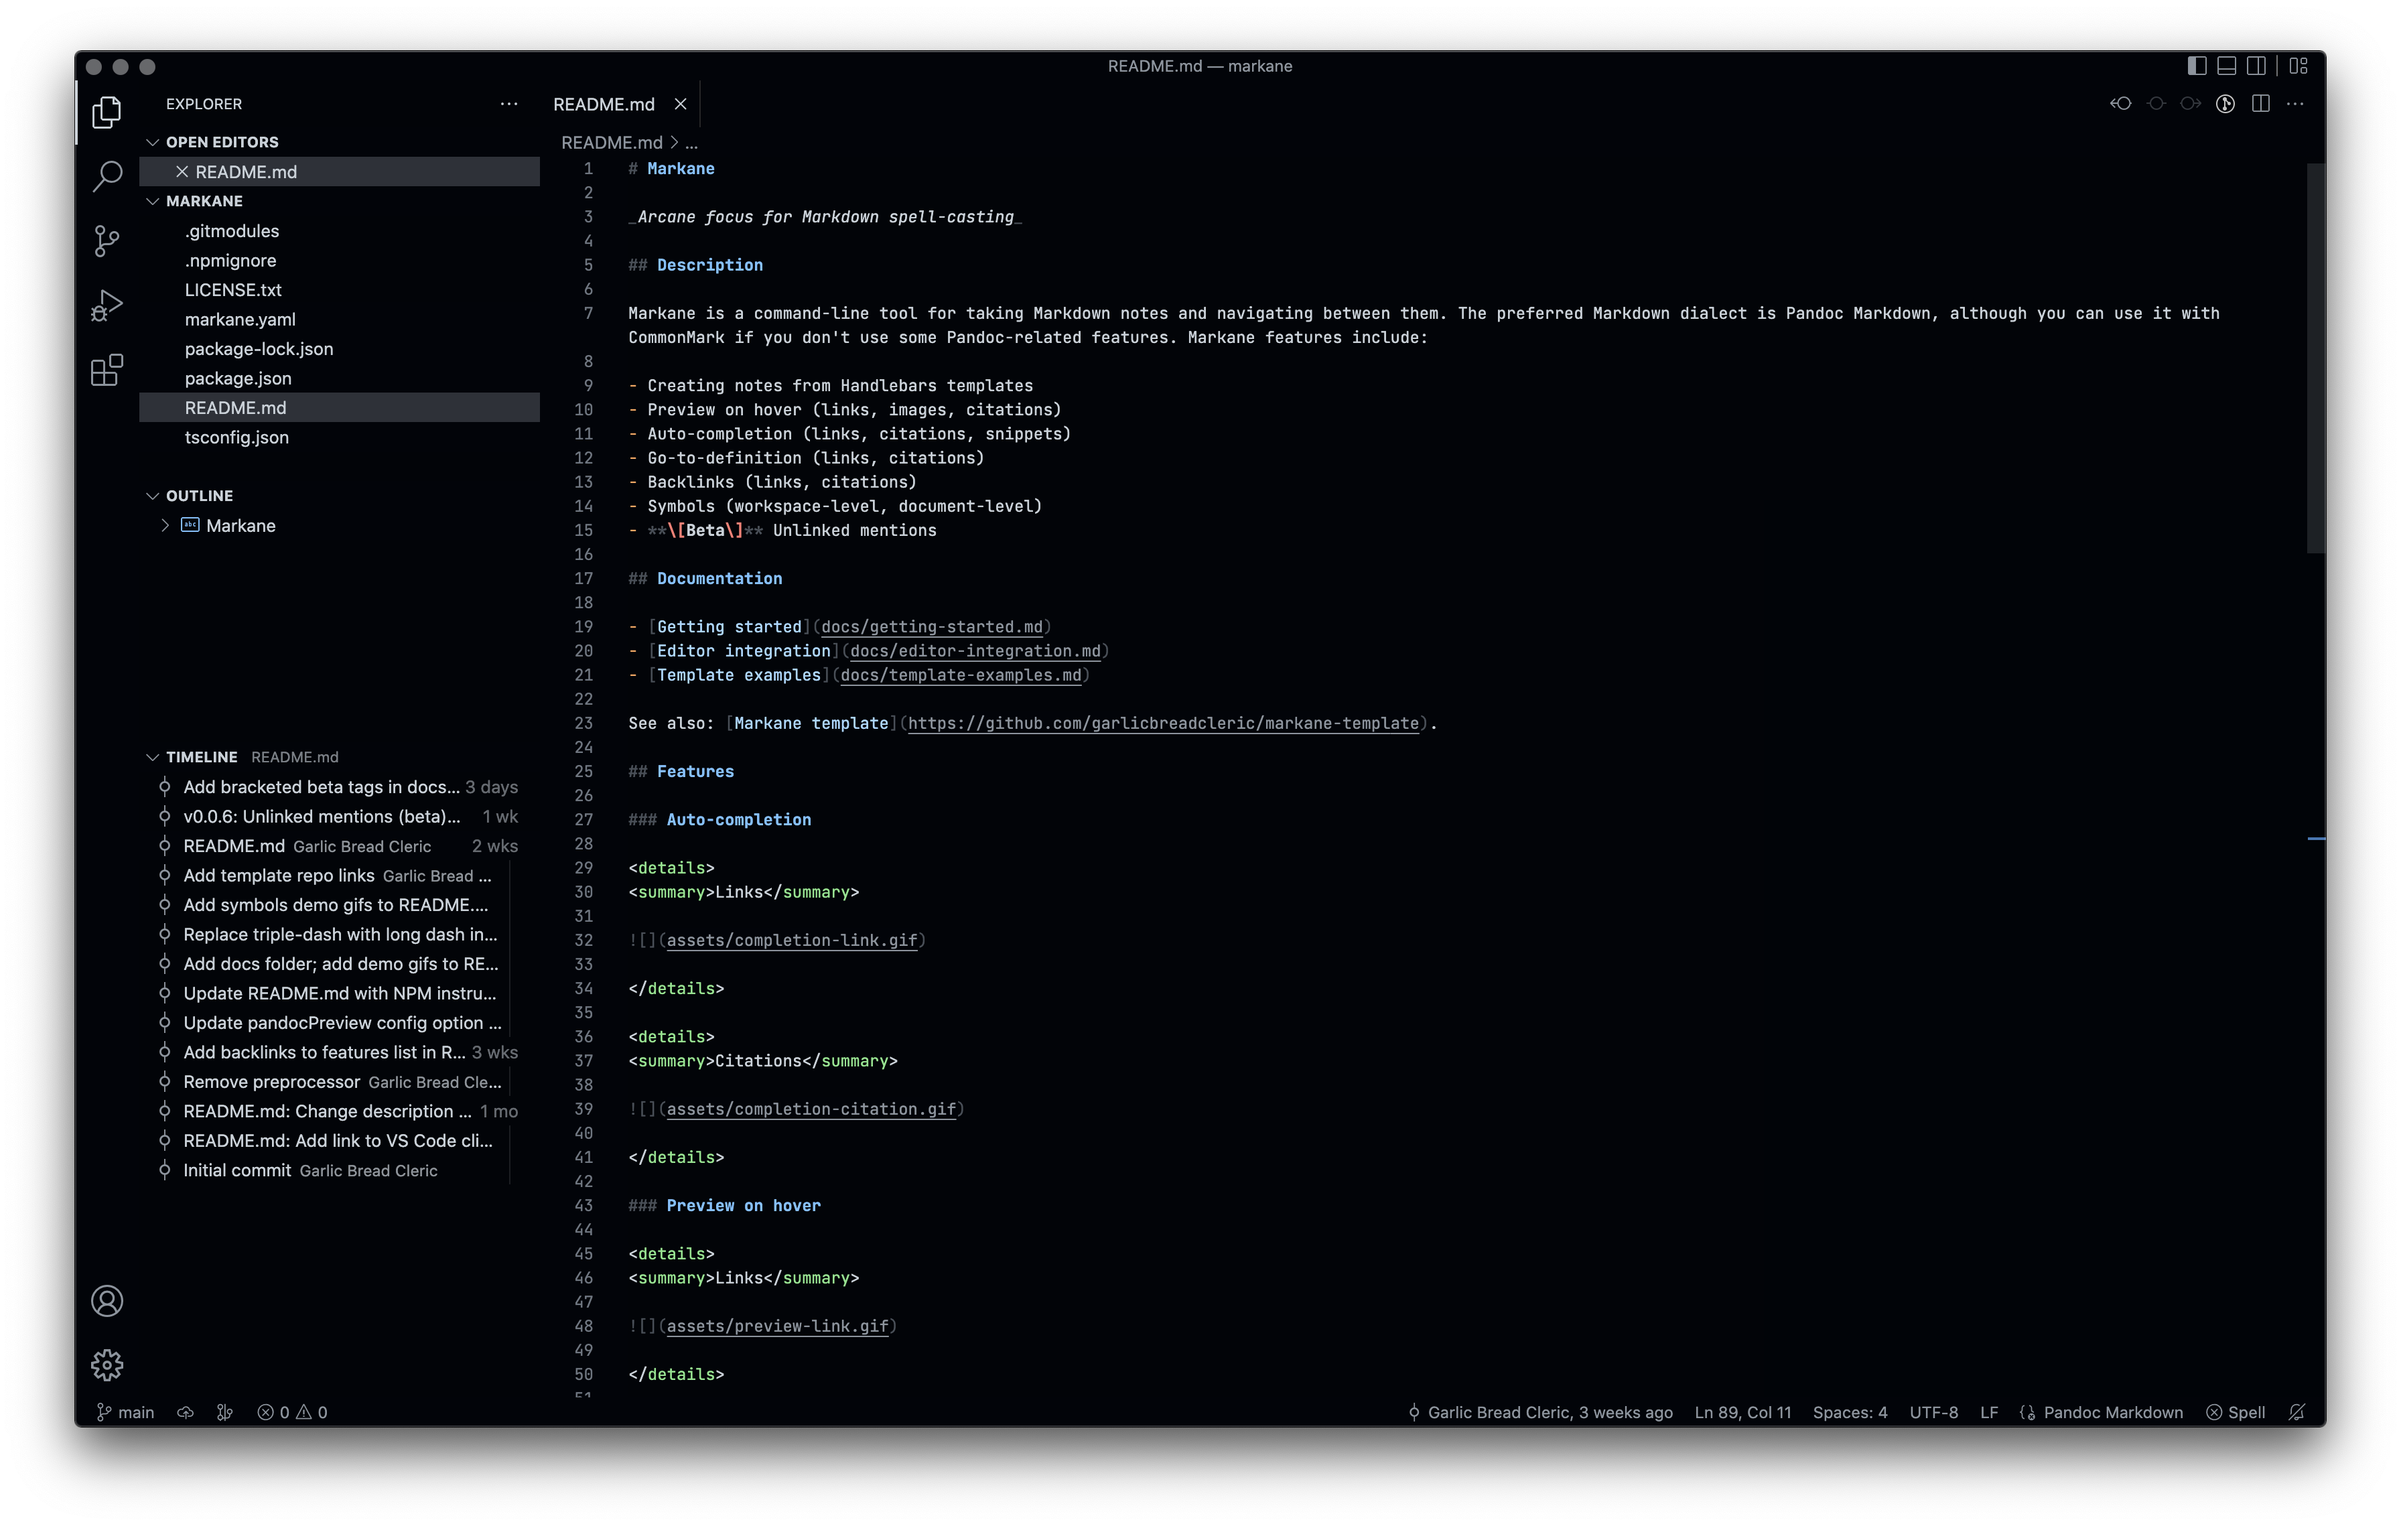
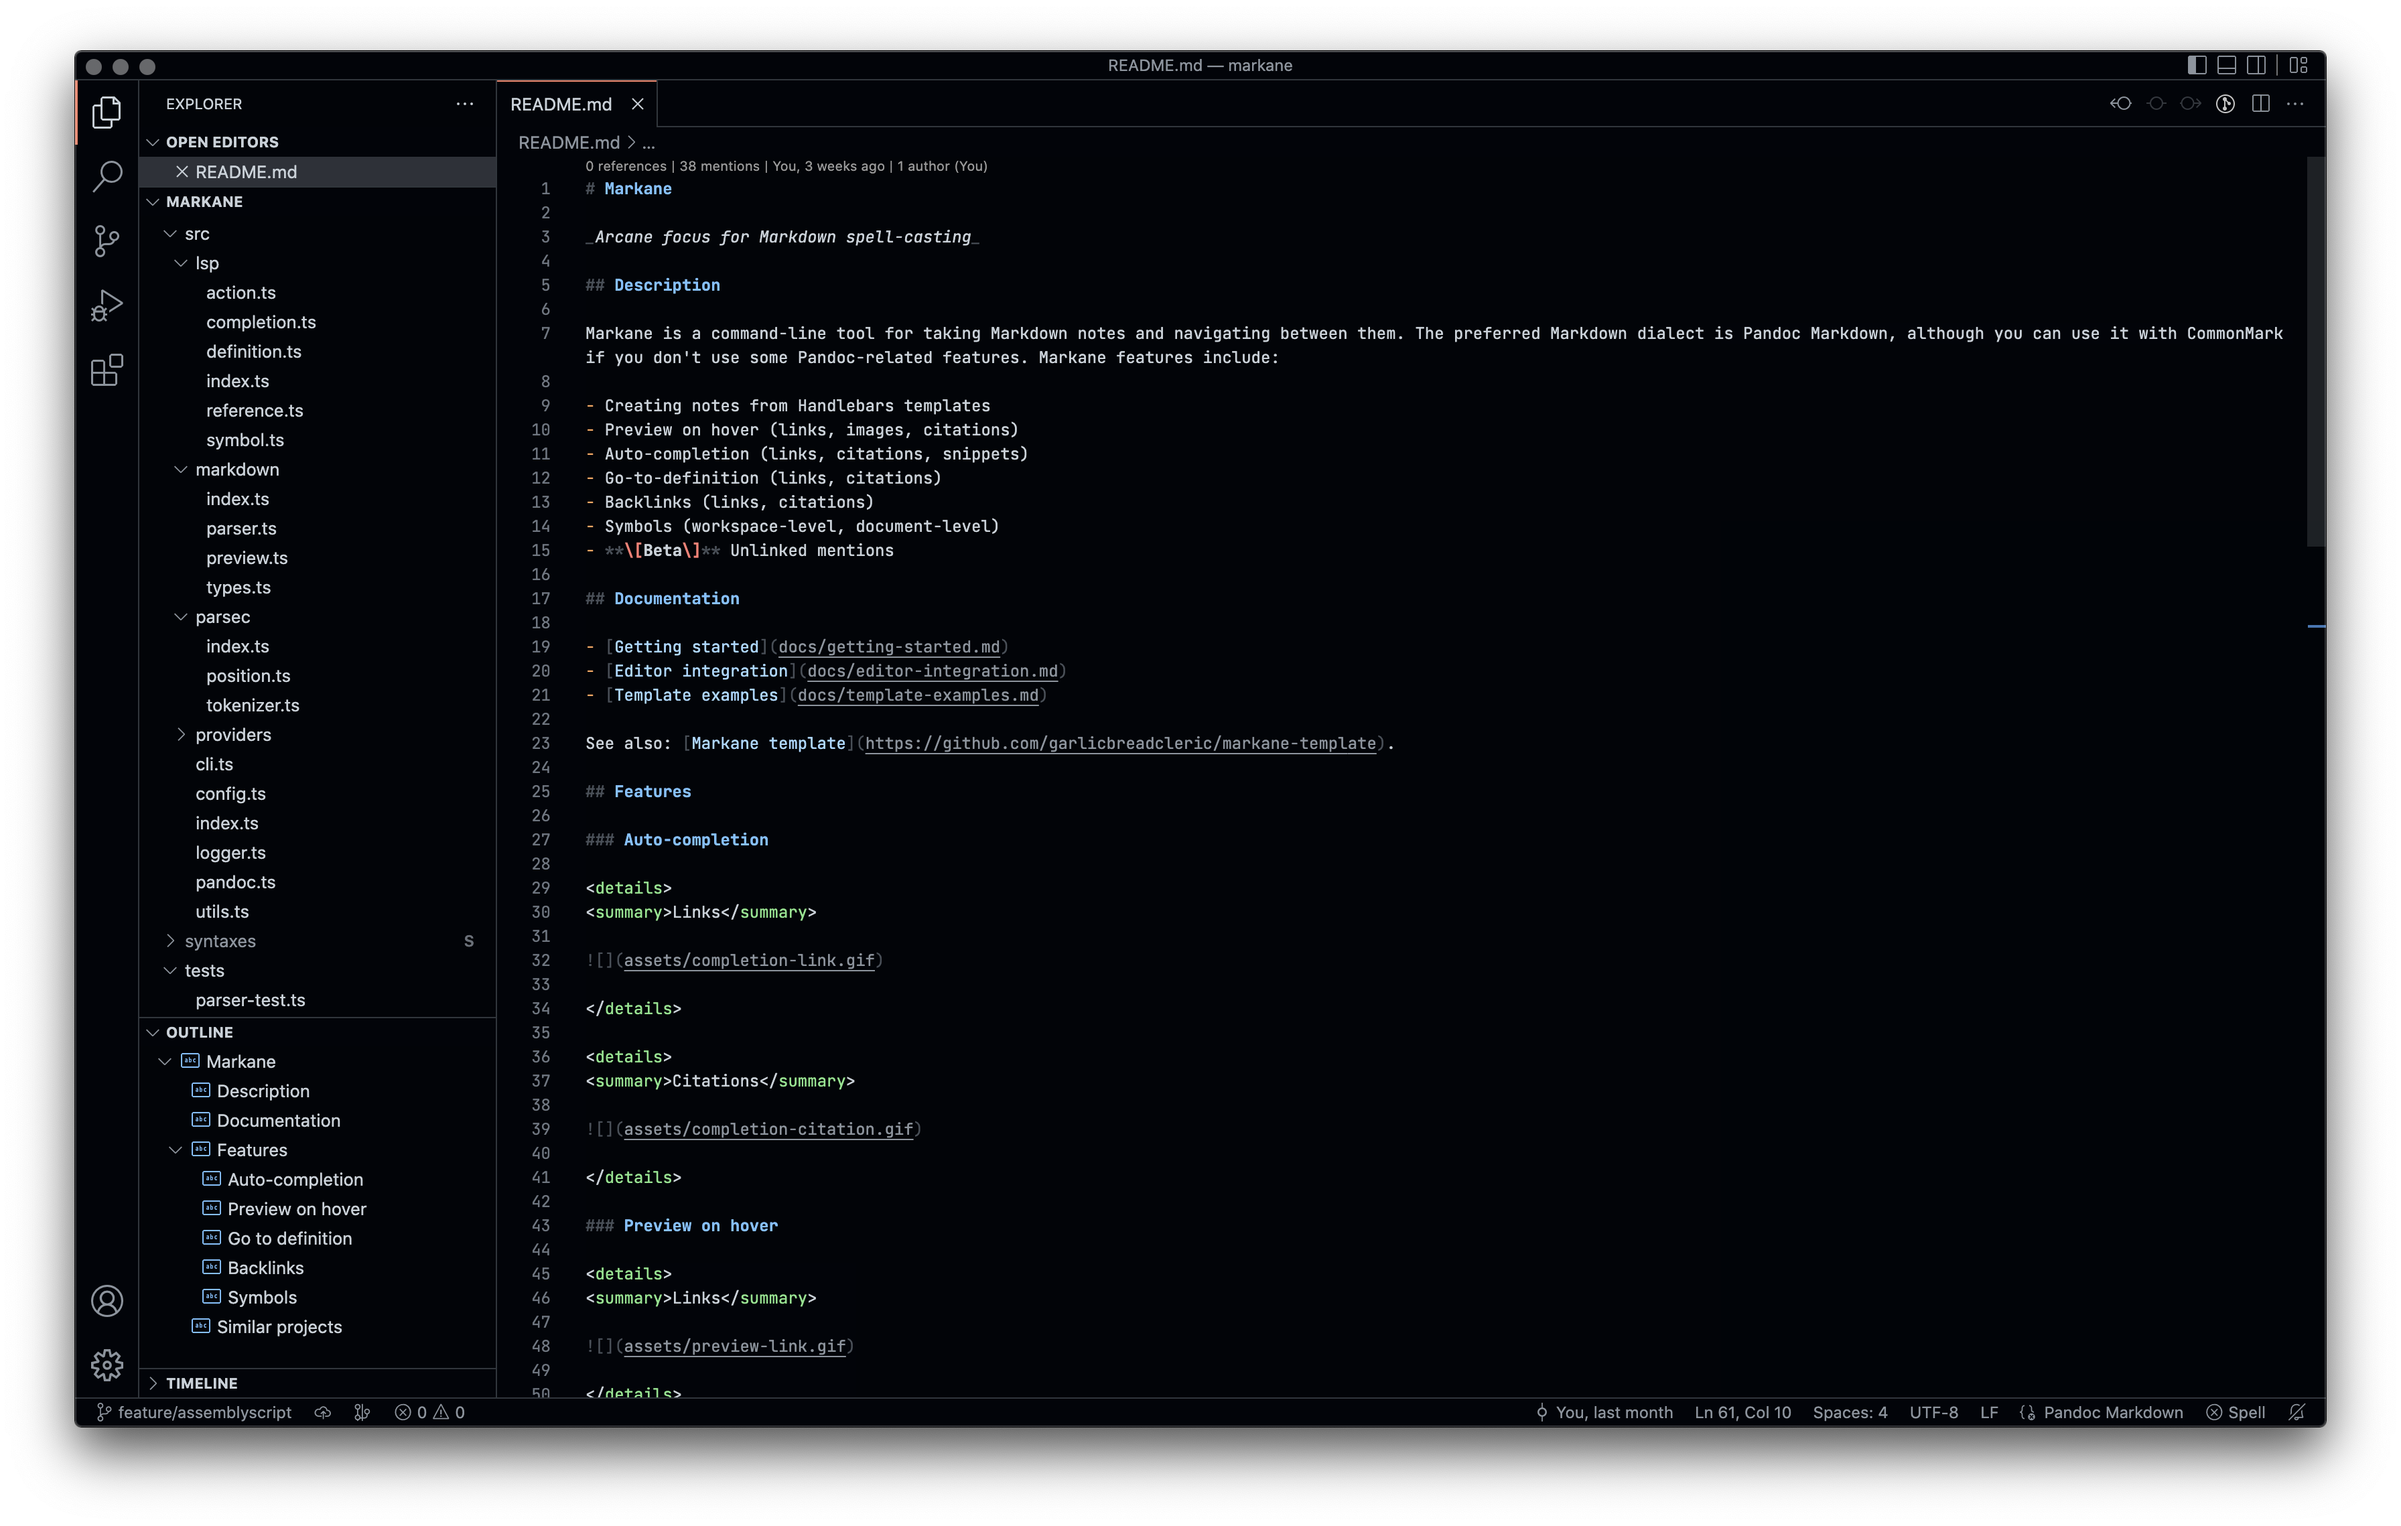
Bring back borders

diff --git a/src/theme.js b/src/theme.js
@@ -41,7 +41,7 @@ function getTheme({ theme, name }) {
   return {
     name: name,
     colors: {
-      // focusBorder          : color.accent.emphasis,
+      focusBorder          : color.accent.emphasis,
       foreground           : color.fg.default,
       descriptionForeground: color.fg.muted,
       errorForeground      : color.danger.fg,
@@ -49,10 +49,10 @@ function getTheme({ theme, name }) {
       "textLink.foreground"      : color.accent.fg,
       "textLink.activeForeground": color.accent.fg,
       "textBlockQuote.background": color.canvas.inset,
-      // "textBlockQuote.border"    : color.border.default,
+      "textBlockQuote.border"    : color.border.default,
       "textCodeBlock.background" : color.neutral.muted,
       "textPreformat.foreground" : color.fg.muted,
-      // "textSeparator.foreground" : color.border.muted,
+      "textSeparator.foreground" : color.border.muted,
 
       "icon.foreground"           : color.fg.muted,
       "keybindingLabel.foreground": color.fg.default,
@@ -66,15 +66,15 @@ function getTheme({ theme, name }) {
       "button.secondaryHoverBackground": color.btn.hoverBg,
 
       "checkbox.background": color.canvas.subtle,
-      // "checkbox.border"    : color.border.default,
+      "checkbox.border"    : color.border.default,
 
       "dropdown.background"    : color.canvas.overlay,
-      // "dropdown.border"        : color.border.default,
+      "dropdown.border"        : color.border.default,
       "dropdown.foreground"    : color.fg.default,
       "dropdown.listBackground": color.canvas.overlay,
 
       "input.background"           : color.canvas.inset,
-      // "input.border"               : color.border.default,
+      "input.border"               : color.border.default,
       "input.foreground"           : color.fg.default,
       "input.placeholderForeground": color.fg.subtle,
 
@@ -87,23 +87,23 @@ function getTheme({ theme, name }) {
       "titleBar.activeBackground"  : color.canvas.inset,
       "titleBar.inactiveForeground": color.fg.muted,
       "titleBar.inactiveBackground": color.canvas.inset,
-      // "titleBar.border"            : color.border.default,
+      "titleBar.border"            : color.border.default,
 
       "activityBar.foreground"        : color.fg.default,
       "activityBar.inactiveForeground": color.fg.muted,
       "activityBar.background"        : color.canvas.inset,
       "activityBarBadge.foreground"   : color.fg.onEmphasis,
       "activityBarBadge.background"   : color.accent.emphasis,
-      // "activityBar.activeBorder"      : color.primer.border.active,
-      // "activityBar.border"            : color.border.default,
+      "activityBar.activeBorder"      : color.primer.border.active,
+      "activityBar.border"            : color.border.default,
 
       "sideBar.foreground"             : color.fg.default,
       "sideBar.background"             : color.canvas.inset,
-      // "sideBar.border"                 : color.border.default,
+      "sideBar.border"                 : color.border.default,
       "sideBarTitle.foreground"        : color.fg.default,
       "sideBarSectionHeader.foreground": color.fg.default,
       "sideBarSectionHeader.background": color.canvas.inset,
-      // "sideBarSectionHeader.border"    : color.border.default,
+      "sideBarSectionHeader.border"    : color.border.default,
 
       "list.hoverForeground"            : color.fg.default,
       "list.inactiveSelectionForeground": color.fg.default,
@@ -116,26 +116,26 @@ function getTheme({ theme, name }) {
       "list.inactiveFocusBackground"    : color.accent.subtle,
       "list.highlightForeground"        : color.accent.fg,
 
-      // "tree.indentGuidesStroke": color.border.muted,
+      "tree.indentGuidesStroke": color.border.muted,
 
       "notificationCenterHeader.foreground": color.fg.muted,
       "notificationCenterHeader.background": color.canvas.subtle,
       "notifications.foreground"           : color.fg.default,
       "notifications.background"           : color.canvas.overlay,
-      // "notifications.border"               : color.border.default,
+      "notifications.border"               : color.border.default,
       "notificationsErrorIcon.foreground"  : color.danger.fg,
       "notificationsWarningIcon.foreground": color.attention.fg,
       "notificationsInfoIcon.foreground"   : color.accent.fg,
 
-      // "pickerGroup.border"    : color.border.default,
+      "pickerGroup.border"    : color.border.default,
       "pickerGroup.foreground": color.fg.muted,
       "quickInput.background" : color.canvas.overlay,
       "quickInput.foreground" : color.fg.default,
 
       "statusBar.foreground"             : color.fg.muted,
       "statusBar.background"             : color.canvas.inset,
-      // "statusBar.border"                 : color.border.default,
-      // "statusBar.focusBorder"            : alpha(color.accent.emphasis, 0.5),
+      "statusBar.border"                 : color.border.default,
+      "statusBar.focusBorder"            : alpha(color.accent.emphasis, 0.5),
       "statusBar.noFolderBackground"     : color.canvas.inset,
       "statusBar.debuggingForeground"    : color.fg.onEmphasis,
       "statusBar.debuggingBackground"    : color.danger.emphasis,
@@ -144,12 +144,12 @@ function getTheme({ theme, name }) {
       "statusBarItem.remoteBackground"   : lightDark(color.scale.gray[1], color.scale.gray[6]),
       "statusBarItem.hoverBackground"    : alpha(color.fg.default, 0.08),
       "statusBarItem.activeBackground"   : alpha(color.fg.default, 0.12),
-      // "statusBarItem.focusBorder"        : color.accent.emphasis,
+      "statusBarItem.focusBorder"        : color.accent.emphasis,
 
       "editorGroupHeader.tabsBackground": color.canvas.inset,
-      "editorGroupHeader.tabsBorder"    : "#0000",
+      "editorGroupHeader.tabsBorder"    : color.border.default,
       "editorGroup.shadow"              : "#0000",
-      "editorGroup.border"              : "#0000",
+      "editorGroup.border"              : color.border.default,
 
       "tab.activeForeground"        : color.fg.default,
       "tab.inactiveForeground"      : color.fg.muted,
@@ -157,11 +157,11 @@ function getTheme({ theme, name }) {
       "tab.activeBackground"        : color.canvas.inset,
       "tab.hoverBackground"         : color.canvas.inset,
       "tab.unfocusedHoverBackground": color.neutral.subtle,
-      // "tab.border"                  : color.border.default,
-      // "tab.unfocusedActiveBorderTop": color.border.default,
-      // "tab.activeBorder"            : color.canvas.inset,
-      // "tab.unfocusedActiveBorder"   : color.canvas.inset,
-      // "tab.activeBorderTop"         : color.primer.border.active,
+      "tab.border"                  : color.border.default,
+      "tab.unfocusedActiveBorderTop": color.border.default,
+      "tab.activeBorder"            : color.canvas.inset,
+      "tab.unfocusedActiveBorder"   : color.canvas.inset,
+      "tab.activeBorderTop"         : color.primer.border.active,
 
       "breadcrumb.foreground"               : color.fg.muted,
       "breadcrumb.focusForeground"          : color.fg.default,
@@ -173,7 +173,7 @@ function getTheme({ theme, name }) {
       "editorWidget.background"           : color.canvas.overlay,
       "editor.foldBackground"             : alpha(color.neutral.emphasis, 0.1),
       "editor.lineHighlightBackground"    : color.codemirror.activelineBg,
-      // "editor.lineHighlightBorder"        : onlyDarkHighContrast(color.accent.fg),
+      "editor.lineHighlightBorder"        : onlyDarkHighContrast(color.accent.fg),
       "editorLineNumber.foreground"       : lightDark(scale.gray[4], scale.gray[4]),
       "editorLineNumber.activeForeground" : color.fg.default,
       "editorIndentGuide.background"      : alpha(color.fg.default, 0.12),
@@ -188,11 +188,11 @@ function getTheme({ theme, name }) {
       "editor.selectionBackground"            : alpha(color.accent.fg, 0.2),
       "editor.selectionHighlightBackground"   : alpha(scale.green[3], 0.25),
       "editor.wordHighlightBackground"        : alpha(color.neutral.subtle, 0.5),
-      // "editor.wordHighlightBorder"            : alpha(color.neutral.muted, 0.6),
+      "editor.wordHighlightBorder"            : alpha(color.neutral.muted, 0.6),
       "editor.wordHighlightStrongBackground"  : alpha(color.neutral.muted, 0.3),
-      // "editor.wordHighlightStrongBorder"      : alpha(color.neutral.muted, 0.6),
+      "editor.wordHighlightStrongBorder"      : alpha(color.neutral.muted, 0.6),
       "editorBracketMatch.background"         : alpha(scale.green[3], 0.25),
-      // "editorBracketMatch.border"             : alpha(scale.green[3], 0.6),
+      "editorBracketMatch.border"             : alpha(scale.green[3], 0.6),
       // text selection for High Contrast themes
       "editor.selectionForeground"            : onlyHighContrast(color.fg.onEmphasis),
       "editor.selectionBackground"            : onlyHighContrast(color.neutral.emphasisPlus),
@@ -218,18 +218,18 @@ function getTheme({ theme, name }) {
       "scrollbarSlider.background"        : lightDark(alpha(scale.gray[4], 0.2), alpha(scale.gray[3], 0.2)),
       "scrollbarSlider.hoverBackground"   : lightDark(alpha(scale.gray[4], 0.24), alpha(scale.gray[3], 0.24)),
       "scrollbarSlider.activeBackground"  : lightDark(alpha(scale.gray[4], 0.28), alpha(scale.gray[3], 0.28)),
-      "editorOverviewRuler.border"        : "#0000",
+      "editorOverviewRuler.border"        : lightDark(scale.white, scale.black),
 
       "minimapSlider.background"          : lightDark(alpha(scale.gray[4], 0.2), alpha(scale.gray[3], 0.2)),
       "minimapSlider.hoverBackground"     : lightDark(alpha(scale.gray[4], 0.24), alpha(scale.gray[3], 0.24)),
       "minimapSlider.activeBackground"    : lightDark(alpha(scale.gray[4], 0.28), alpha(scale.gray[3], 0.28)),
 
       "panel.background"               : color.canvas.inset,
-      "panel.border"                   : "#0000",
-      // "panelTitle.activeBorder"        : color.primer.border.active,
+      "panel.border"                   : color.border.default,
+      "panelTitle.activeBorder"        : color.primer.border.active,
       "panelTitle.activeForeground"    : color.fg.default,
       "panelTitle.inactiveForeground"  : color.fg.muted,
-      // "panelInput.border"              : color.border.default,
+      "panelInput.border"              : color.border.default,
 
       "debugIcon.breakpointForeground": color.danger.fg,
 

diff --git a/README.md b/README.md
@@ -4,7 +4,6 @@ A dark, high-contrast theme based on [GitHub's VS Code themes](https://github.co
 
 Features:
 
-- No borders/shadows
 - Low contrast for punctuation and link targets
 
 ![Screenshot](screenshot.png)
